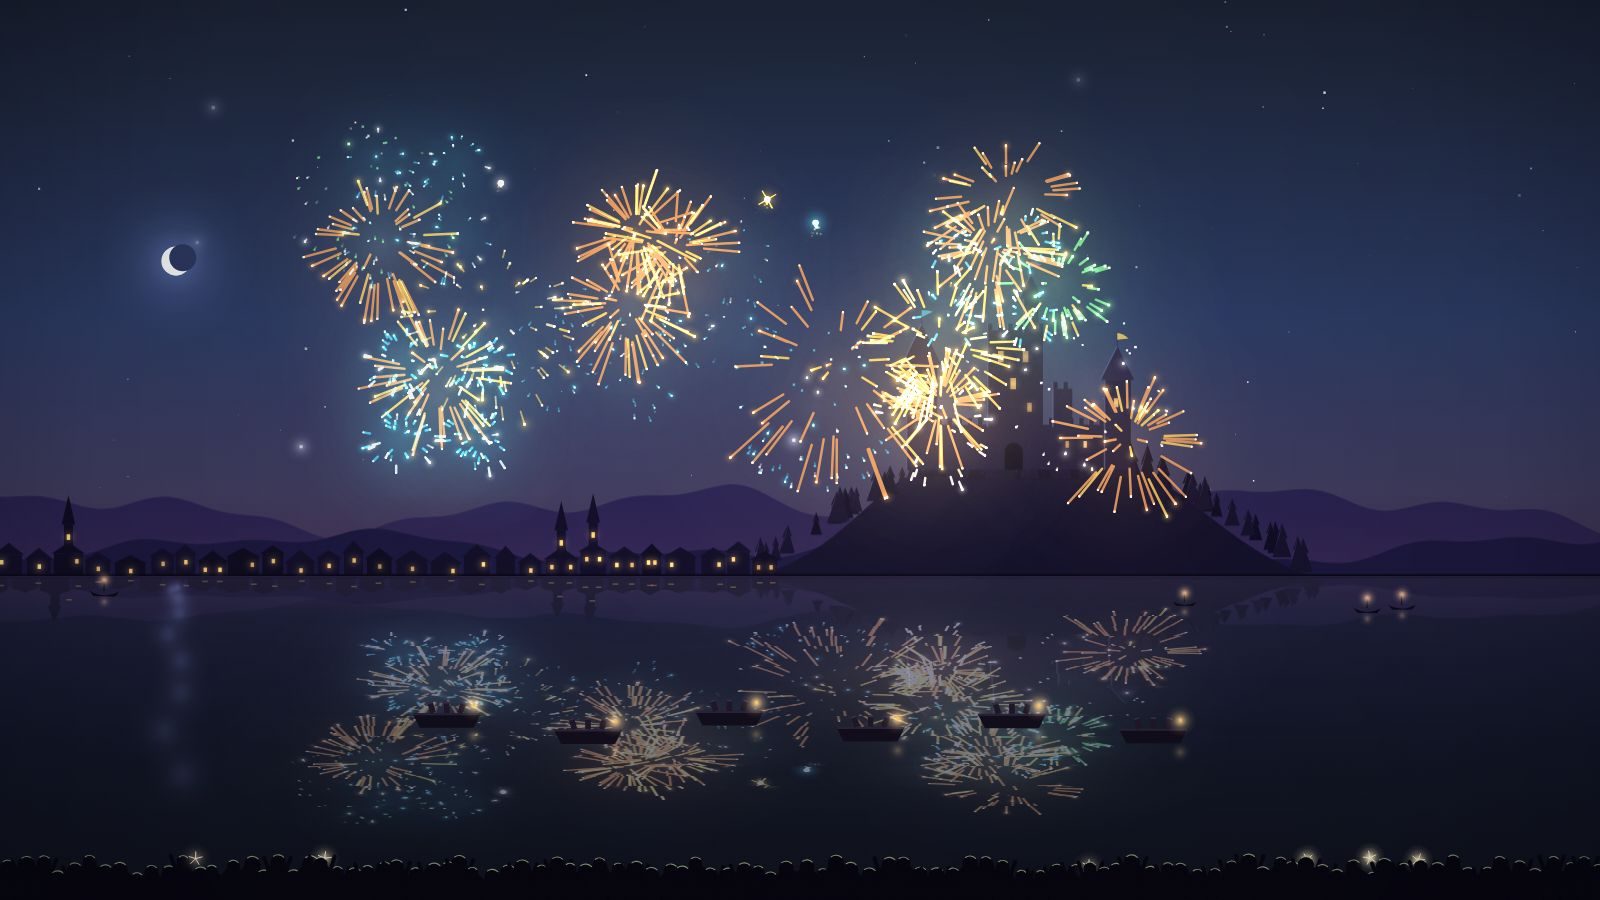
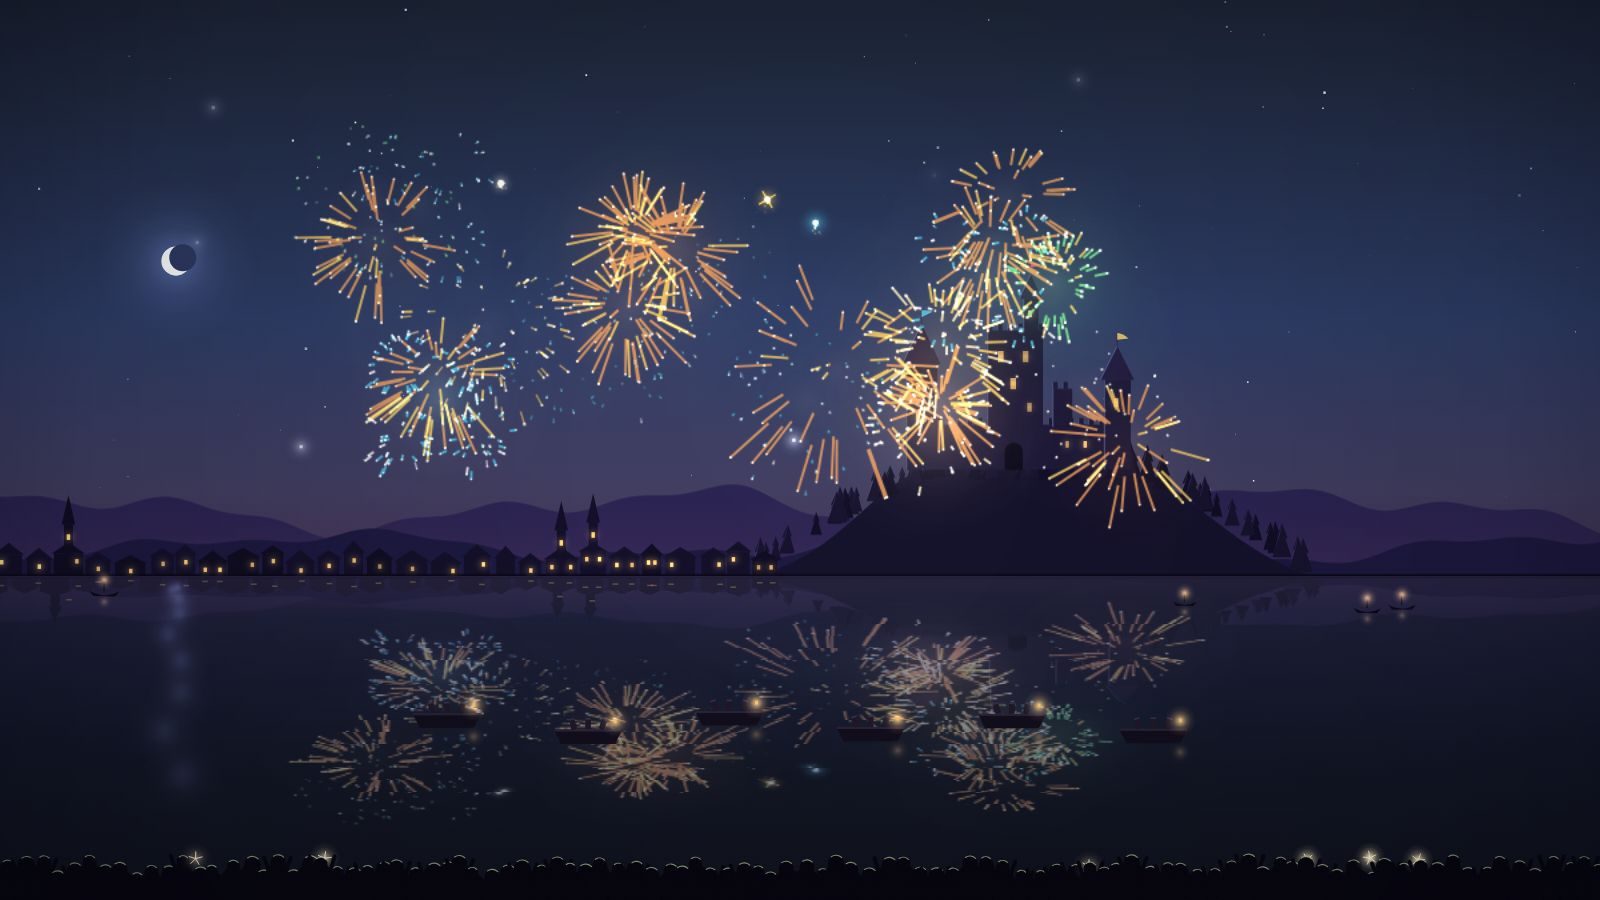
Add Long Ball Night and Night Bloom: batch 1 complete
Long Ball Night (Sports): a home run derby at a seaside ballpark seen from
behind the batter. Hold to place the sweet spot, let go on time; contact
sets exit speed and launch angle and the camera follows the ball. New
pitchers every five homers bring breaking balls as dusk turns to night,
and the Ferris wheel, neon fish, kite and lighthouse pay bonuses.

Night Bloom (Arcade): fireworks over a lakeside castle. Tap a shell to
burst it and its blast lights every shell it touches; tap at the white
peak for a double-size Bloom. A few sparks per wave must unfurl a quota of
pennants, new shell types arrive wave by wave, and every fifth wave is a
medal-rated finale.

Both were built and playtested end to end by one agent each, self-scored
7 or more on fun, visuals, juice, clarity and polish, and re-checked here:
game-check 18 of 18 at 60 fps, their rules tests pass, art reviewed. All
six games of batch 1 are now in Kiln.

Claude-Session: https://claude.ai/code/session_019z41fSQpv4wske49kBe2yE

diff --git a/games/night-bloom/index.html b/games/night-bloom/index.html
@@ -64,6 +64,8 @@ html, body { height: 100%; margin: 0; overflow: hidden; overscroll-behavior: non
 
   /* ================= layout (logical px: height 800) ================= */
   let S = 1, LW = 400, LH = 800, HOR = 512, BY = 640, SAFE_T = 0, SAFE_B = 0, SPAN0 = 30, SPAN1 = 370;
+  let refl = null, reflx = null, FD = 1;
+  const FD_MAX = 1.5; // the fireworks layer is all glow and thin light: 1.5x is crisp enough and saves fill rate
   let land = null, water = null, fwc = null, fwx = null, CAS = null, BARGES = [], BOATS = [], CROWD = [], WINS = [], FLAGS = [];
   const stars = gfx.starfield({ count: 120, seed: 5, size: [0.4, 1.7], layers: 3 });
 
@@ -193,7 +195,8 @@ html, body { height: 100%; margin: 0; overflow: hidden; overscroll-behavior: non
     for (let i = 0; i < 4; i++) BOATS.push({ x: r.pick([r.range(10, cx - 230), r.range(cx + 150, LW - 10)]), y: HOR + r.range(14, 40), ph: r.range(0, 6), s: r.range(0.75, 1.05) });
     CROWD = [];
     for (let x2 = -6; x2 < LW + 10; x2 += r.range(11, 17)) CROWD.push({ x: x2, h: r.range(20, 34), hr: r.range(5.5, 7.5), ph: r.range(0, 6), kid: r.chance(0.12), sparkler: r.chance(0.07), lean: r.range(-0.08, 0.08) });
-    fwc = gfx.offscreen(Math.ceil(view.w * dpr), Math.ceil(view.h * dpr));
+    FD = Math.min(dpr, FD_MAX);
+    fwc = gfx.offscreen(Math.ceil(view.w * FD), Math.ceil(view.h * FD));
     fwx = fwc.getContext('2d');
   }
 
@@ -466,7 +469,7 @@ html, body { height: 100%; margin: 0; overflow: hidden; overscroll-behavior: non
     let bonus = ok ? (lit - G.quota) * 25 : 0;
     G.litTotal += lit; G.blooms += W.blooms;
     G.bestChain = Math.max(G.bestChain, W.bestChain);
-    let title, sub = lit + ' of ' + G.quota + ' lit';
+    let title, sub = lit + ' lit  ·  quota ' + G.quota;
     if (G.def.finale) {
       const tot = G.def.shells.filter(s => s.type !== 'smoke').length;
       const pct = Math.round(lit / tot * 100);
@@ -568,7 +571,7 @@ html, body { height: 100%; margin: 0; overflow: hidden; overscroll-behavior: non
       default: add(50, col, VR.chance(0.5) ? C.white : C.gold, 1.35, k, 40, 7.5, 2.1); break;
     }
     if (bloom) {
-      add(16, C.white, '#FFF1C1', 0.55, 1.8, 0, 3, 1.6, 0, true);
+      add(20, C.white, '#FFF1C1', 0.5, 2.6, 0, 9, 1.8, 0, true);
     }
   }
 
@@ -624,7 +627,7 @@ html, body { height: 100%; margin: 0; overflow: hidden; overscroll-behavior: non
       if (b.bloom) {
         if (b.depth === 1) {
           fx.shockwave(b.x * S, b.y * S, { radius: b.R * S * 0.9, color: '#FFF4D8', width: 2, ms: 380 });
-          if (!G.attract) fx.float('Bloom ×2', b.x * S, b.y * S + 40, { color: '#FFFFFF', size: 17, font: SERIF, weight: 700 });
+          if (!G.attract) fx.float('Bloom ×2', b.x * S, b.y * S + 52, { color: '#FFFFFF', size: 17, font: SERIF, weight: 700 });
         }
         sfx('nb-bloom', { pan });
         G.kick = 1;
@@ -806,7 +809,7 @@ html, body { height: 100%; margin: 0; overflow: hidden; overscroll-behavior: non
       for (const b of W.bursts) {
         const k = Math.min(1, b.age / 0.6), fade = 1 - Math.max(0, (b.age - 0.6) / b.linger);
         const col = b.col || C.gold;
-        gfx.light(g, b.x, b.y, b.R * 2.2, col, 0.2 * fade * (1 - k * 0.3));
+        if (b.age < 1.1 && b.type !== 'cross2') gfx.light(g, b.x, b.y, b.R * 1.6, col, 0.26 * (1 - b.age / 1.1));
         if (b.bloom && b.age < 0.25) gfx.light(g, b.x, b.y, b.R * 0.8, '#FFFFFF', (0.25 - b.age) * (b.depth === 1 ? 1.4 : 0.6));
         // the reach of this burst: a faint ring so players read the chain
         const on = !(b.type === 'strobe' && Math.floor(b.age / 0.12) % 2);
@@ -825,7 +828,7 @@ html, body { height: 100%; margin: 0; overflow: hidden; overscroll-behavior: non
       if (p.strobe && ((t * 14 + p.ph) % 2) < 0.9 && p.age > 0.35) continue;
       buckets[p.c * 4 + Math.min(3, Math.floor(a * 4))].push(p);
     }
-    g.lineCap = 'round';
+    g.lineCap = 'butt';
     for (let c = 0; c < COLS.length; c++) {
       const col = COLS[c];
       for (let lv = 0; lv < 4; lv++) {
@@ -840,7 +843,6 @@ html, body { height: 100%; margin: 0; overflow: hidden; overscroll-behavior: non
         g.globalAlpha = a;
         g.fillStyle = lv >= 2 ? '#FFFFFF' : col;
         for (const p of arr) { const s = p.size; g.fillRect(p.x - s / 2, p.y - s / 2, s, s); }
-        if (lv >= 2 && arr.length) for (let j = 0; j < arr.length; j += 3) gfx.light(g, arr[j].x, arr[j].y, arr[j].size * 4, col, a * 0.5);
       }
     }
     g.globalAlpha = 1;
@@ -982,29 +984,32 @@ html, body { height: 100%; margin: 0; overflow: hidden; overscroll-behavior: non
     // 5. fireworks layer (rendered once, used twice)
     fwx.setTransform(1, 0, 0, 1, 0, 0);
     fwx.clearRect(0, 0, fwc.width, fwc.height);
-    fwx.setTransform(dpr * S, 0, 0, dpr * S, 0, 0);
+    fwx.setTransform(FD * S, 0, 0, FD * S, 0, 0);
     drawFireworks(fwx, t);
     // 6. the lake: rippling reflection of the land, then of the show
     const wTop = horS, wH = h - wTop;
-    const sl = 7, n = Math.ceil(wH / sl);
+    const sl = 9, n = Math.ceil(wH / sl);
     const mist = G.mist;
     for (let i = 0; i < n; i++) {
       const dy = i * sl, off = Math.sin(t * 1.4 + i * 0.8) * (0.6 + i * 0.07);
       ctx.drawImage(water, 0, dy * dpr, water.width, sl * dpr, off - 8, wTop + dy, w + 16, sl + 0.5);
     }
+    // the show's reflection: squash and flip the sky half of the fireworks layer into a small buffer once,
+    // then lay it on the lake in rippling bands (water is soft, so half resolution reads as natural blur)
+    const sq = 0.55, rh = Math.min(wH, horS * sq);
+    const RS = Math.max(0.75, dpr * 0.6), rw = Math.ceil(w * RS), rhh = Math.max(1, Math.ceil(rh * RS));
+    if (!refl || refl.width !== rw || refl.height < rhh) { refl = gfx.offscreen(rw, Math.ceil(h * RS)); reflx = refl.getContext('2d'); }
+    reflx.setTransform(1, 0, 0, 1, 0, 0);
+    reflx.clearRect(0, 0, rw, rhh + 1);
+    reflx.setTransform(RS, 0, 0, -RS * sq, 0, horS * sq * RS);
+    reflx.drawImage(fwc, 0, 0, fwc.width, Math.ceil(horS * FD), 0, 0, w, horS);
     ctx.save();
     ctx.globalCompositeOperation = 'lighter';
-    ctx.globalAlpha = 0.42 * (1 - mist * 0.55);
-    const sq = 0.55, rs = 5;
-    const nr = Math.ceil(Math.min(wH, horS * sq) / rs);
+    ctx.globalAlpha = 0.45 * (1 - mist * 0.55);
+    const rs = 6, nr = Math.ceil(rh / rs);
     for (let i = 0; i < nr; i++) {
-      const dy0 = i * rs, dy1 = dy0 + rs;
-      const srcY1 = horS - dy0 / sq, srcY0 = horS - dy1 / sq;
-      if (srcY1 <= 0) break;
-      const off = Math.sin(t * 2.1 + i * 1.3) * (1 + i * 0.12) + Math.sin(t * 0.7 + i * 0.4) * 1.5;
-      ctx.setTransform(dpr, 0, 0, -dpr, off * dpr, (wTop + wTop + dy0 + dy1) * dpr - 0);
-      // after the flip a destination y maps to (top + bottom) - y, so the slice is mirrored in place
-      ctx.drawImage(fwc, 0, Math.max(0, srcY0) * dpr, fwc.width, (srcY1 - Math.max(0, srcY0)) * dpr, 0, wTop + dy0, w, rs * ((srcY1 - Math.max(0, srcY0)) / (rs / sq)));
+      const dy = i * rs, off = Math.sin(t * 2.1 + i * 1.3) * (1 + i * 0.12) + Math.sin(t * 0.7 + i * 0.4) * 1.5;
+      ctx.drawImage(refl, 0, dy * RS, rw, rs * RS, off, wTop + dy, w, rs);
     }
     ctx.restore();
     ctx.save(); ctx.scale(S, S);
@@ -1167,7 +1172,7 @@ html, body { height: 100%; margin: 0; overflow: hidden; overscroll-behavior: non
     if (cs && cs.n >= 2) {
       const a = cs.done ? 1 - cs.t / 0.6 : 1;
       const sz = Math.min(58, 24 + cs.n * 2.2) * (1 + cs.pop * 0.35);
-      const x = Kit.clamp(cs.x * S, 50, w - 50), y = Kit.clamp(cs.y * S - 46, top + 110, h * 0.6);
+      const x = Kit.clamp(cs.x * S, 50, w - 50), y = Kit.clamp(cs.y * S - 72, top + 112, h * 0.6);
       gfx.text(ctx, '×' + cs.n, x, y, { size: sz, weight: 700, font: SERIF, color: cs.n >= 10 ? C.gold : C.cream, stroke: 'rgba(20,10,40,0.7)', strokeWidth: 4, alpha: a });
     }
     // banner
@@ -1182,6 +1187,14 @@ html, body { height: 100%; margin: 0; overflow: hidden; overscroll-behavior: non
       gfx.text(ctx, bn.title, w / 2, y, { size: Math.min(38, w * 0.09), weight: 700, font: SERIF, color: bn.good === false ? '#FFB4A8' : C.gold, alpha: a, stroke: 'rgba(10,8,30,0.6)', strokeWidth: 3 });
       gfx.text(ctx, bn.sub, w / 2, y + 28, { size: 14, weight: 600, font: 'body', color: C.cream, alpha: a });
     }
+    // the wave that introduces a shell type names it in flight
+    if (W && INTRO[G.n] && G.mode === 'wave' && !G.attract) {
+      const nt = INTRO[G.n];
+      for (const s of W.shells) {
+        if (s.st !== 1 || s.type !== nt) continue;
+        gfx.text(ctx, TYPES[nt].name, s.x * S, s.y * S - 18, { size: 11, weight: 700, font: 'body', color: nt === 'smoke' ? '#D9D3E6' : (TYPES[nt].col || C.cream), stroke: 'rgba(10,8,30,0.7)', strokeWidth: 3 });
+      }
+    }
     // teaching: a ghost finger on the glowing shell, and a one-line hint early on
     if (W && G.tutTarget >= 0 && !G.tutTapped) {
       const s = W.shells[G.tutTarget];
@@ -1189,10 +1202,16 @@ html, body { height: 100%; margin: 0; overflow: hidden; overscroll-behavior: non
         const x = s.x * S, y = s.y * S;
         const k = (t * 1.4) % 1, press = k < 0.25 ? k / 0.25 : k < 0.45 ? 1 : Math.max(0, 1 - (k - 0.45) / 0.3);
         const hx = x + 14, hy = y + 26 - press * 8;
-        ctx.save(); ctx.globalAlpha = 0.85;
-        ctx.fillStyle = 'rgba(255,255,255,0.9)'; ctx.strokeStyle = 'rgba(30,20,60,0.6)'; ctx.lineWidth = 2;
-        gfx.roundRect(ctx, hx - 7, hy - 8, 14, 36, 7).fill();
-        gfx.roundRect(ctx, hx - 7, hy + 14, 34, 34, 12).fill();
+        // a soft glove: index finger, palm and thumb, pressing toward the shell
+        ctx.save(); ctx.globalAlpha = 0.92;
+        ctx.translate(hx, hy); ctx.rotate(-0.35);
+        gfx.softShadow(ctx, 8, 40, 26, 10, 0.3);
+        ctx.fillStyle = '#FFF6E6'; ctx.strokeStyle = 'rgba(60,40,90,0.55)'; ctx.lineWidth = 1.6;
+        gfx.roundRect(ctx, -6, -10, 12, 34, 6).fill(); gfx.roundRect(ctx, -6, -10, 12, 34, 6).stroke();
+        gfx.roundRect(ctx, -8, 12, 34, 30, 11).fill(); gfx.roundRect(ctx, -8, 12, 34, 30, 11).stroke();
+        ctx.beginPath(); ctx.ellipse(-9, 26, 5, 9, -0.5, 0, TAU); ctx.fill(); ctx.stroke();
+        ctx.fillStyle = '#FFF6E6'; ctx.fillRect(-4.5, 10, 9, 6);
+        ctx.strokeStyle = 'rgba(60,40,90,0.3)'; ctx.beginPath(); ctx.moveTo(6, 13); ctx.lineTo(6, 22); ctx.moveTo(15, 13); ctx.lineTo(15, 22); ctx.stroke();
         ctx.restore();
         if (press > 0.8) { ctx.strokeStyle = 'rgba(255,255,255,0.7)'; ctx.lineWidth = 2; ctx.beginPath(); ctx.arc(x, y, 18 + (1 - press) * 40, 0, TAU); ctx.stroke(); }
         gfx.text(ctx, 'Tap the shell at its peak', w / 2, h * 0.62, { size: 19, weight: 700, font: SERIF, color: C.cream, stroke: 'rgba(10,8,30,0.7)', strokeWidth: 4 });

diff --git a/games/long-ball-night/index.html b/games/long-ball-night/index.html
@@ -185,7 +185,7 @@ html, body { height: 100%; margin: 0; overflow: hidden; overscroll-behavior: non
   const ZONE = { x: 0.83, y0: 1.6, y1: 3.4 };
   const LAG = 0.1;        // seconds from letting go to the bat reaching the zone
   const SWEET = 0.62;     // ft: the reticle's reach
-  const DRAG = 0.16, GRAV = 32.2, FLY_SPEED = 1.3;
+  const DRAG = 0.16, GRAV = 32.2, FLY_SPEED = 1.5;
 
   /* ---------- Saved ---------- */
   let tutDone = !!Kit.save.get('tut', false);
@@ -497,7 +497,7 @@ html, body { height: 100%; margin: 0; overflow: hidden; overscroll-behavior: non
     G.kiteFlare = Math.max(0, G.kiteFlare - dt * 0.7);
     G.stitchPop = Math.max(0, G.stitchPop - dt * 2);
     bulbPop = Math.max(0, bulbPop - dt * 2.5);
-    const nightGoal = G.nightLock !== undefined ? G.nightLock : clamp((G.pitchNo - 1) / 46, 0, 1);
+    const nightGoal = G.nightLock !== undefined ? G.nightLock : clamp((G.pitchNo - 1) / 34, 0, 1);
     G.night = Kit.approach(G.night, nightGoal, dt * 0.08);
     G.kite.x = Math.sin(G.t * 0.16 + G.kite.ph) * 95;
     if (G.label) { G.label.t -= dt; if (G.label.t <= 0) G.label = null; }
@@ -580,10 +580,10 @@ html, body { height: 100%; margin: 0; overflow: hidden; overscroll-behavior: non
     if (G.ball && (G.phase === 'flight')) {
       const b = G.ball;
       pr(b.x, b.y, b.z, T0);
-      liftGoal = clamp(P.h * 0.2 - T0.y, 0, P.h * 0.55);
+      liftGoal = clamp(P.h * 0.34 - T0.y, 0, P.h * 1.1);
       if (G.flight && G.flight.landed) liftGoal = Math.min(G.lift, liftGoal + 40);
     }
-    G.lift = Kit.smooth(G.lift, liftGoal, liftGoal > G.lift ? 5 : 2.2, dt);
+    G.lift = Kit.smooth(G.lift, liftGoal, liftGoal > G.lift ? 7 : 2.2, dt);
     // fielders drift back to their spots
     for (const f of G.fielders) { f.x = Kit.approach(f.x, f.hx, dt * 30); f.z = Kit.approach(f.z, f.hz, dt * 30); f.run = Math.max(0, f.run - dt); }
     // fireworks
@@ -624,7 +624,7 @@ html, body { height: 100%; margin: 0; overflow: hidden; overscroll-behavior: non
       b.t += dt;
       f.time += dt;
       G.dist = Math.round(Math.min(f.dist, Math.hypot(b.x, b.z)));
-      b.trail.push(b.x, b.y, b.z); if (b.trail.length > 66) b.trail.splice(0, 3);
+      b.trail.push(b.x, b.y, b.z); if (b.trail.length > 120) b.trail.splice(0, 3);
       // the nearest fielder chases a ball that stays in the park
       if (!f.hr && !f.chaser) { let best = null, bd = 1e9; for (const fl of G.fielders) { const d = Math.hypot(fl.x - b.pred.x, fl.z - b.pred.z); if (d < bd) { bd = d; best = fl; } } f.chaser = best; }
       if (f.chaser) { const fl = f.chaser; fl.hx = b.pred.x; fl.hz = b.pred.z; fl.run = 0.3; fl.x = Kit.approach(fl.x, b.pred.x, dt * 26); fl.z = Kit.approach(fl.z, b.pred.z, dt * 26); }
@@ -1445,7 +1445,7 @@ html, body { height: 100%; margin: 0; overflow: hidden; overscroll-behavior: non
     tr.length = 0;
     for (let i = 0; i < b.trail.length; i += 3) { pr(b.trail[i], b.trail[i + 1], b.trail[i + 2], T2); tr.push(T2.x, T2.y); }
     tr.push(T0.x, T0.y);
-    ballSprite(T0.x, T0.y, Math.max(2.6, 0.125 * T0.k), b.golden, tr, t, true);
+    ballSprite(T0.x, T0.y, Math.max(3.6, 0.125 * T0.k), b.golden, tr, t, true);
   }
   const flightTrail = [];
   function ballSprite(x, y, r, gold, trail, t, flying) {
@@ -1462,7 +1462,7 @@ html, body { height: 100%; margin: 0; overflow: hidden; overscroll-behavior: non
     gfx.light(ctx, x, y, r * 5 + (flying ? 16 : 6), gold ? '#FFD34D' : '#FFF6E0', gold ? 0.8 : (flying ? 0.6 : 0.35) + 0.3 * (G ? G.night : 0));
     ctx.fillStyle = gold ? '#FFD34D' : '#FBFAF4';
     ctx.beginPath(); ctx.arc(x, y, r, 0, TAU); ctx.fill();
-    if (r > 3.5) {
+    if (r > 6) {
       ctx.strokeStyle = gold ? '#B5541F' : '#D62828'; ctx.lineWidth = Math.max(1, r * 0.14);
       const sp = t * 30;
       ctx.beginPath(); ctx.arc(x - r * 0.9, y, r * 0.75, -0.9 + sp * 0, 0.9); ctx.stroke();
@@ -1714,9 +1714,9 @@ html, body { height: 100%; margin: 0; overflow: hidden; overscroll-behavior: non
     if (G.banner) {
       const b = G.banner, u = b.t;
       const pop = u < 0.25 ? Kit.ease.backOut(u / 0.25) : 1, out = clamp((b.life - u) / 0.3, 0, 1);
-      const y = h * 0.4;
-      ctx.save(); ctx.globalAlpha = out; ctx.translate(w / 2, y); ctx.rotate(-0.06); ctx.scale(pop, pop);
       const big = b.text === 'HOME RUN';
+      const y = h * (big ? 0.53 : 0.4);
+      ctx.save(); ctx.globalAlpha = out; ctx.translate(w / 2, y); ctx.rotate(-0.06); ctx.scale(pop, pop);
       ctext(ctx, b.text, 0, 0, { size: big ? Math.min(54, w * 0.13) : Math.min(40, w * 0.1), color: b.color, stroke: '#5A0F0F', strokeWidth: big ? 9 : 7, font: DISP, weight: 800 });
       if (b.sub) ctext(ctx, b.sub, 0, big ? 42 : 34, { size: big ? 18 : 14, color: C.cream, stroke: 'rgba(26,18,48,0.9)', strokeWidth: 5, font: DISP, weight: 800 });
       ctx.restore();
@@ -1807,9 +1807,10 @@ html, body { height: 100%; margin: 0; overflow: hidden; overscroll-behavior: non
     pitcher(n) { if (G) { G.hr = 5 * n; G.pIdx = n; G.pitcher = makePitcher(n, rand); } },
     night(v) { if (G) { G.nightLock = v; G.night = v; } },
     step(sec) { loop.step(Math.round((sec || 1) * 60)); },
+    freeze() { loop.stop(); },
     // play until the next pitch has been decided (ready -> result)
     pitchOut() { let n = 0; const start = G.pitchNo; while (n++ < 900 && !(G.pitchNo > start && G.phase === 'ready') && !G.over) loop.step(1); loop.step(1); return n; },
-    info: () => (G ? { phase: G.phase, outs: G.outs, hr: G.hr, streak: G.streak, score: G.score, pitchNo: G.pitchNo, pitcher: G.pIdx, night: G.night, targets: G.targets, longest: G.longest, kind: G.pitch && G.pitch.kind, auto: G.auto, best: shell.best } : null),
+    info: () => (G ? { phase: G.phase, dist: G.flight ? G.flight.dist : 0, hitTarget: G.flight ? G.flight.hitTarget : null, outs: G.outs, hr: G.hr, streak: G.streak, score: G.score, pitchNo: G.pitchNo, pitcher: G.pIdx, night: G.night, targets: G.targets, longest: G.longest, kind: G.pitch && G.pitch.kind, auto: G.auto, best: shell.best } : null),
     geom: () => ({ fence0: fenceDist(0), fence45: fenceDist(Math.PI / 4), hor: P.hor, f: P.f }),
     // where the pitch will cross the plate on screen, and how long until the ideal moment to let go
     pitchInfo() {
@@ -1844,8 +1845,8 @@ html, body { height: 100%; margin: 0; overflow: hidden; overscroll-behavior: non
   Arcade.scenes({
     art: () => scene(41, {
       night: 0.18, plan: { e: 0.035, dx: 0, dy: -0.32 }, zone: true, golden: false,
-      until: () => G.phase === 'flight' && G.ball && G.ball.z > 170,
-      post: () => { G.swing = { t: 0.36, rx: 0.1, ry: 2.6, res: { type: 'hit' }, applied: true }; G.chase = 1.5; crowd.ex = 0.8; G.banner = null; G.label = null; },
+      until: () => G.phase === 'flight' && G.ball && G.ball.z > 300,
+      post: () => { G.lift = Math.min(G.lift, P.h * 0.2); G.swing = { t: 0.36, rx: 0.1, ry: 2.6, res: { type: 'hit' }, applied: true }; G.chase = 1.5; crowd.ex = 0.8; G.banner = null; G.label = null; },
     }),
     shot1: () => scene(12, {
       night: 0.08, zone: true, pitchNo: 5,

diff --git a/games/registry.js b/games/registry.js
@@ -98,6 +98,42 @@ window.KILN_GAMES = [
     saves: 'run',
   },
   {
+    id: 'long-ball-night',
+    title: 'Long Ball Night',
+    pitch: 'Hold to aim, let go to swing: launch homers over a seaside ballpark into a lit boardwalk.',
+    genre: 'Sports',
+    mechanics: ['Batting', 'Timing', 'Target hitting'],
+    moods: ['Upbeat', 'Quick'],
+    accent: '--g3',
+    status: 'beta',
+    path: 'games/long-ball-night/index.html',
+    added: '2026-10-11',
+    artWide: 'games/long-ball-night/art-wide.jpg',
+    artTall: 'games/long-ball-night/art-tall.jpg',
+    shots: ['games/long-ball-night/shot-1.jpg', 'games/long-ball-night/shot-2.jpg'],
+    about: 'A home run derby seen from behind the batter at a 1960s seaside ballpark. Hold to place the sweet spot where the pitch will cross and let go on time: contact quality sets exit speed and launch angle, and the camera tilts up to follow the ball as the feet count up. Every 5 home runs a new pitcher adds changeups, curves, sliders and knucklers while dusk turns to night. Streaks multiply your score, golden pitches pay triple, and the Ferris wheel, neon fish, kite and lighthouse lamp pay bonuses when you hit them.',
+    controls: 'Touch or keyboard',
+    saves: 'best',
+  },
+  {
+    id: 'night-bloom',
+    title: 'Night Bloom',
+    pitch: 'Tap one firework at its peak and watch the blast chain across the sky over a lakeside castle.',
+    genre: 'Arcade',
+    mechanics: ['Chain reaction', 'Timing'],
+    moods: ['Dazzling', 'Relaxed'],
+    accent: '--g2',
+    status: 'beta',
+    path: 'games/night-bloom/index.html',
+    added: '2026-10-11',
+    artWide: 'games/night-bloom/art-wide.jpg',
+    artTall: 'games/night-bloom/art-tall.jpg',
+    shots: ['games/night-bloom/shot-1.jpg', 'games/night-bloom/shot-2.jpg'],
+    about: 'Shells rise from barges on a moonlit lake, and one tap bursts a shell whose blast lights every shell it touches, so a single spark can chain across the sky. Tap a shell as it glows white at its peak for a Bloom: a bigger burst worth double. Each wave gives only a few sparks to unfurl a quota of pennants, and new shells keep arriving: lingering willows, splitting crossettes, rings, strobes, spark-refunding golden shells and smoke duds that block the chain. Miss a quota and a castle beacon goes dark; every fifth wave is a medal-rated grand finale.',
+    controls: 'Touch',
+    saves: 'best',
+  },
+  {
     id: 'tessera',
     title: 'Tessera',
     pitch: 'Lay glazed tiles on the grid. Fill a row or column to clear it.',

diff --git a/docs/HANDOFF.md b/docs/HANDOFF.md
@@ -41,9 +41,9 @@ Every push to `main` (or a `claude/*` branch) also publishes
 | Work | State |
 | --- | --- |
 | Foundation: mockup Home, six categories, game kit, game checker, 60-game plan | Done, merged in #10 |
-| Batch 1: Scrapwing, Pipistrelle, Tinplate GP, Napwalk, Long Ball Night, Night Bloom | In progress: Scrapwing, Pipistrelle, Tinplate GP and Napwalk shipped; Long Ball Night and Night Bloom being built, one agent per game end to end |
-| Visual overhaul of Tessera, Goldmend, Lariat, Crosswake | Not started (after batch 1) |
-| Batches 2 to 10 | Not started; line-ups in `docs/CATALOGUE.md` |
+| Batch 1: Scrapwing, Pipistrelle, Tinplate GP, Napwalk, Long Ball Night, Night Bloom | Done: all six shipped (#12, #14, #15 and the PR that adds the last two) |
+| Visual overhaul of Tessera, Goldmend, Lariat, Crosswake | Next |
+| Batches 2 to 10 | Not started; line-ups in `docs/CATALOGUE.md`. Build them one agent per game end to end (`.claude/workflows/` has the fast workflow pattern in this PR history), then ship each as it passes |
 
 Work in progress is pushed to the working branch named in the latest pull request. A game folder in
 `games/<id>/` that is not yet in `games/registry.js` is unfinished: check it with `node tools/game-check.cjs --game
